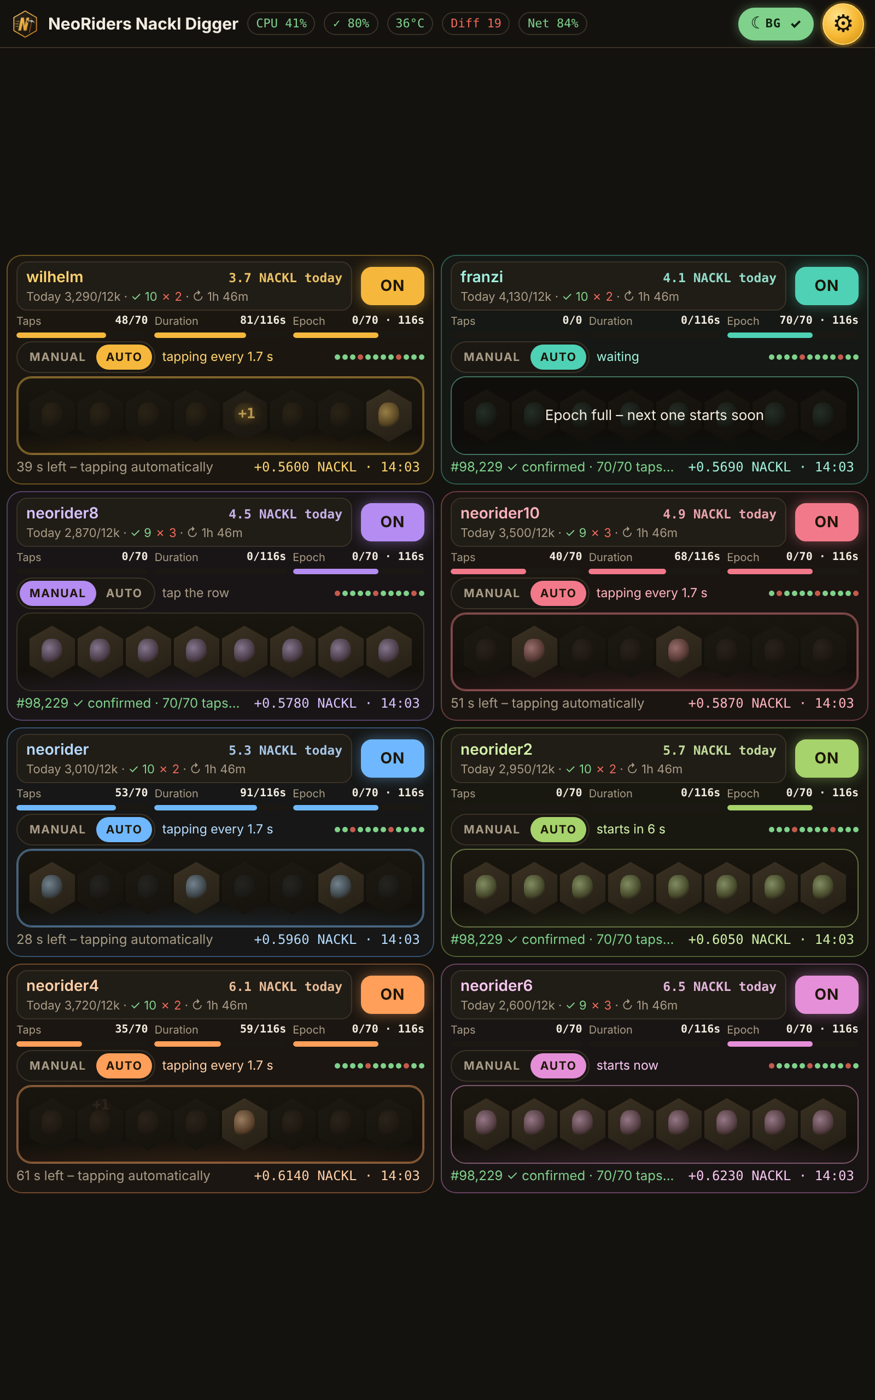
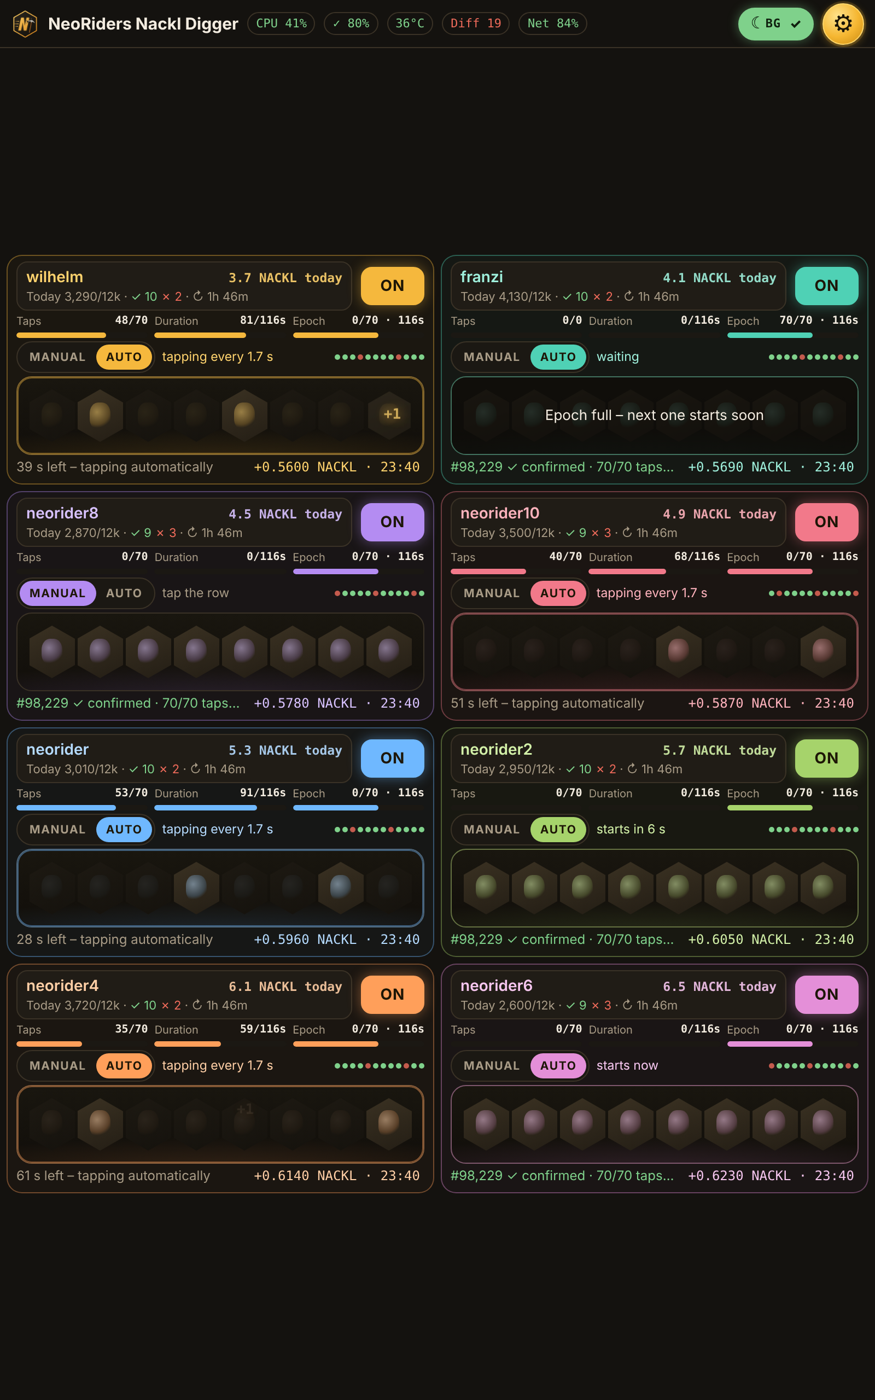
new

diff --git a/docs/upgrade.html b/docs/upgrade.html
@@ -86,8 +86,15 @@ async function load() {
   }
   if (!data) { document.getElementById('meta').innerHTML = '<span class="err">Could not load (' + err + ') – try Refresh</span>'; return; }
   const now = Date.now();
-  if (lastSample && data.seq_no > lastSample.seq) blockSec = Math.min(0.6, Math.max(0.2, (now - lastSample.t) / 1000 / (data.seq_no - lastSample.seq)));
-  lastSample = { seq: data.seq_no, t: now };
+  // Blockzeit nur aus Messungen mit genug Abstand schätzen (≥ 50 s, ≥ 100 Blöcke) und
+  // sanft nachführen. Vorher sprangen die Zeiten bei schnellem Refresh wild: wenige
+  // Sekunden und zwischengespeicherte Antworten ergaben unsinnige Blockzeiten.
+  if (!lastSample || data.seq_no < lastSample.seq) lastSample = { seq: data.seq_no, t: now };
+  else if (now - lastSample.t >= 50000 && data.seq_no - lastSample.seq >= 100) {
+    const est = (now - lastSample.t) / 1000 / (data.seq_no - lastSample.seq);
+    if (est > 0.25 && est < 0.5) blockSec = blockSec * 0.7 + est * 0.3;
+    lastSample = { seq: data.seq_no, t: now };
+  }
   render(data);
 }
 
